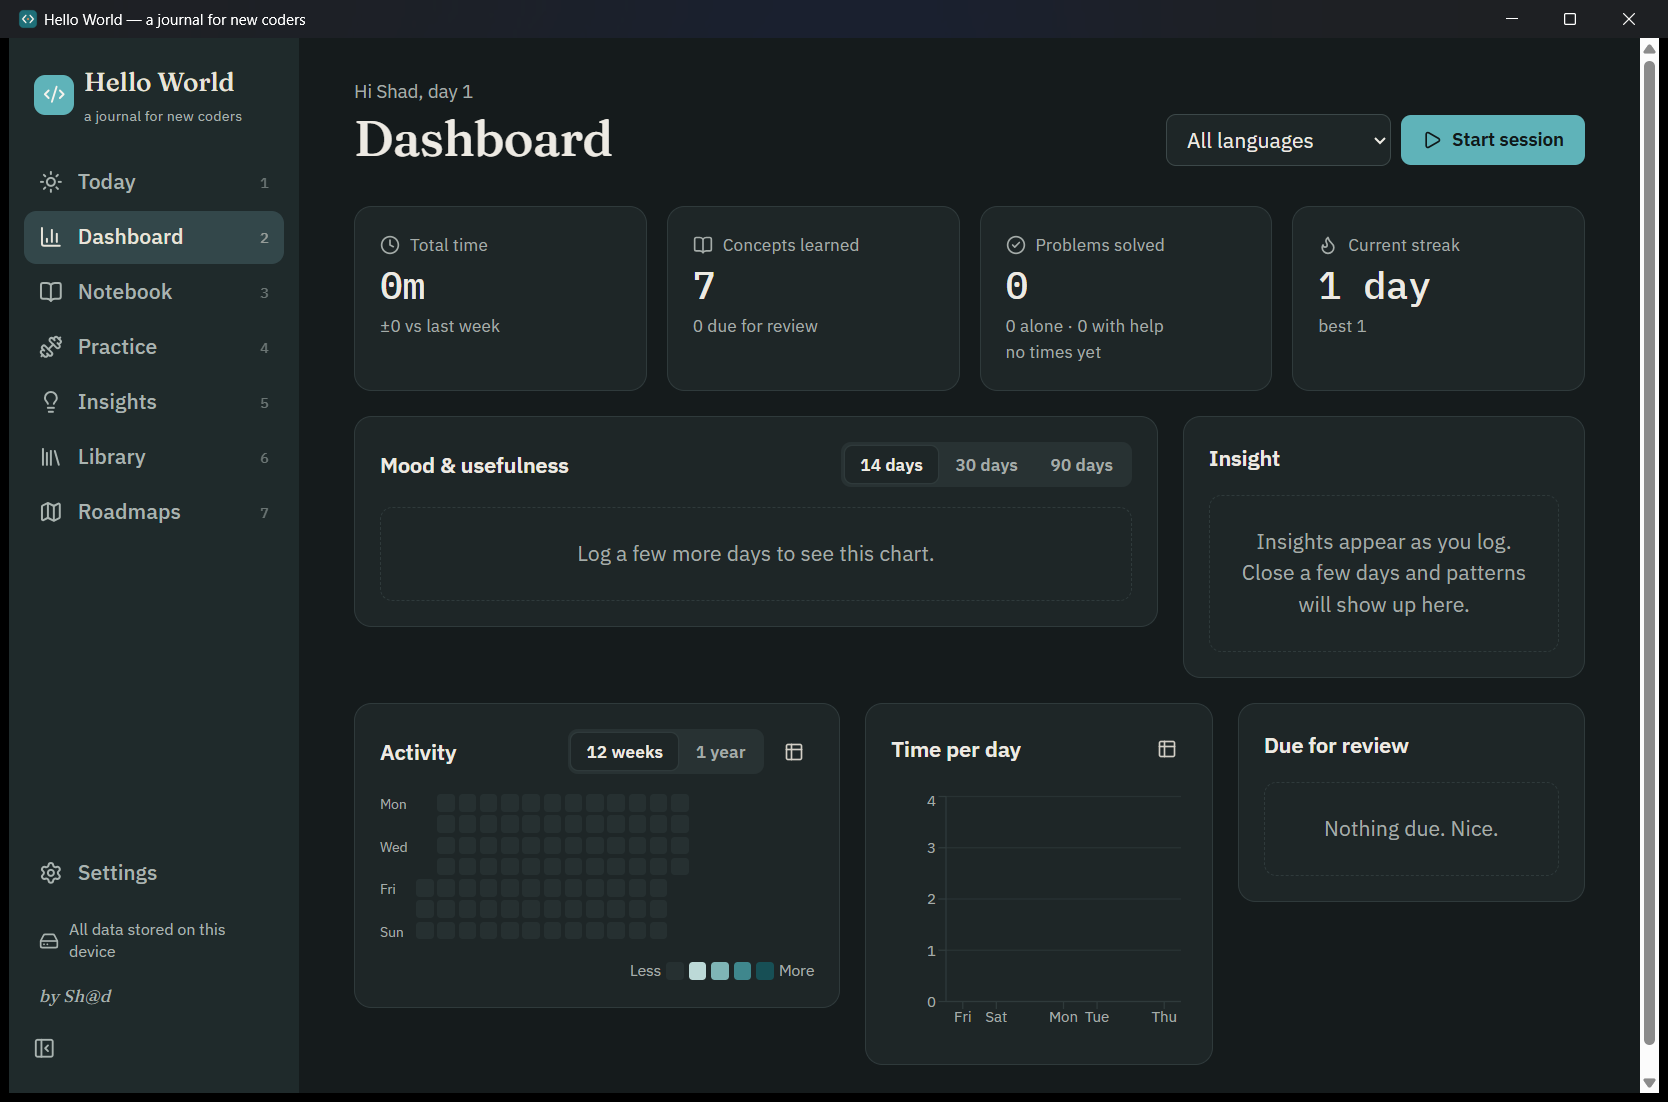
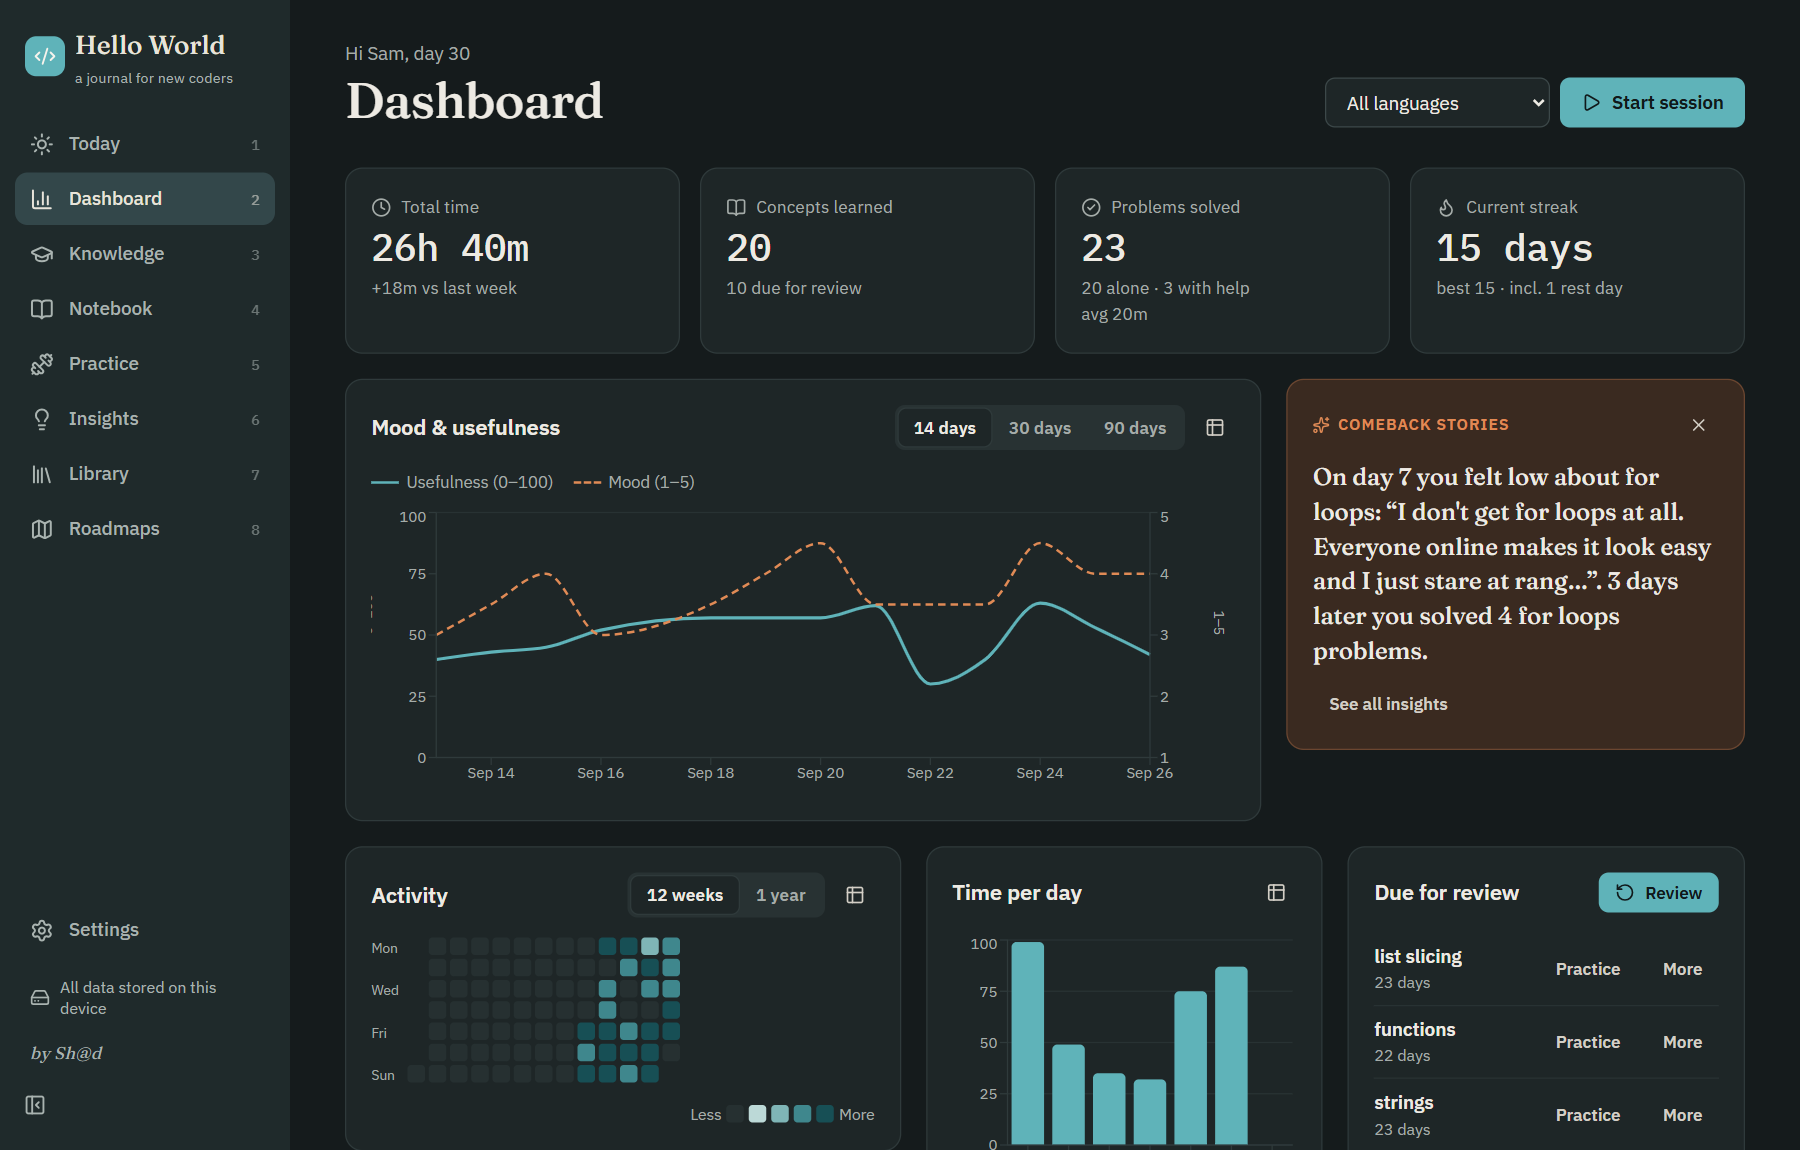
README: new screenshots for v1.1 (Knowledge, recall, error journal, weekly review, guide)

diff --git a/README.md b/README.md
@@ -54,14 +54,26 @@ feelings.
 ## 📸 Screenshots
 
 <p align="center">
-  <img src="docs/screenshots/today.png" alt="Today: session timer, mood check-in, what I learned, diary and usefulness" width="860" />
-  <br /><sub><b>Today</b>: timer, mood check-in, what you learned, diary and the usefulness score</sub>
+  <img src="docs/screenshots/today.png" alt="Today: session timer, mood check-in, what I learned with examples, problems, diary and this week's focus" width="860" />
+  <br /><sub><b>Today</b>: timer, mood, what you learned, problems, diary, and this week's focus</sub>
 </p>
 
 <table>
 <tr>
+<td width="50%"><img src="docs/screenshots/getting-started.png" alt="Getting started: six steps that take a new learner straight to each part of the app" /><br /><sub><b>Getting started</b>: every step's button lands exactly where you act</sub></td>
+<td width="50%"><img src="docs/screenshots/example-editor.png" alt="Example editor: code on the left, pasted output on the right, and the fix for an error seen before" /><br /><sub><b>Example editor</b>: code beside output, and <i>"you've seen this error before"</i></sub></td>
+</tr>
+<tr>
+<td width="50%"><img src="docs/screenshots/knowledge.png" alt="Knowledge: every concept as a cheat sheet with review status" /><br /><sub><b>Knowledge</b>: your concepts as a cheat sheet</sub></td>
+<td width="50%"><img src="docs/screenshots/recall.png" alt="Recall review: remember first, then reveal your own note and rate it" /><br /><sub><b>Recall review</b>: remember first, then check your own note</sub></td>
+</tr>
+<tr>
+<td width="50%"><img src="docs/screenshots/errors.png" alt="Error journal: errors you fixed, what caused them and how you fixed them" /><br /><sub><b>Errors I fixed</b>: your error journal</sub></td>
+<td width="50%"><img src="docs/screenshots/weekly-review.png" alt="Weekly review: the week's numbers, what you learned and three short questions" /><br /><sub><b>Weekly review</b>: two minutes to look back and pick a focus</sub></td>
+</tr>
+<tr>
 <td width="50%"><img src="docs/screenshots/dashboard.png" alt="Dashboard: total time, concepts, problems solved alone and with help, streak, charts" /><br /><sub><b>Dashboard</b>: time, concepts, problems (alone · with help), streak and charts</sub></td>
-<td width="50%"><img src="docs/screenshots/practice.png" alt="Practice: build a prompt from your own concepts and paste the AI response back" /><br /><sub><b>Practice</b>: build a prompt from your own concepts, then paste the answer back</sub></td>
+<td width="50%"><img src="docs/screenshots/practice.png" alt="Practice: build a prompt from your own concepts and paste the AI response back" /><br /><sub><b>Practice</b>: problems or mini projects from your own concepts</sub></td>
 </tr>
 </table>
 
